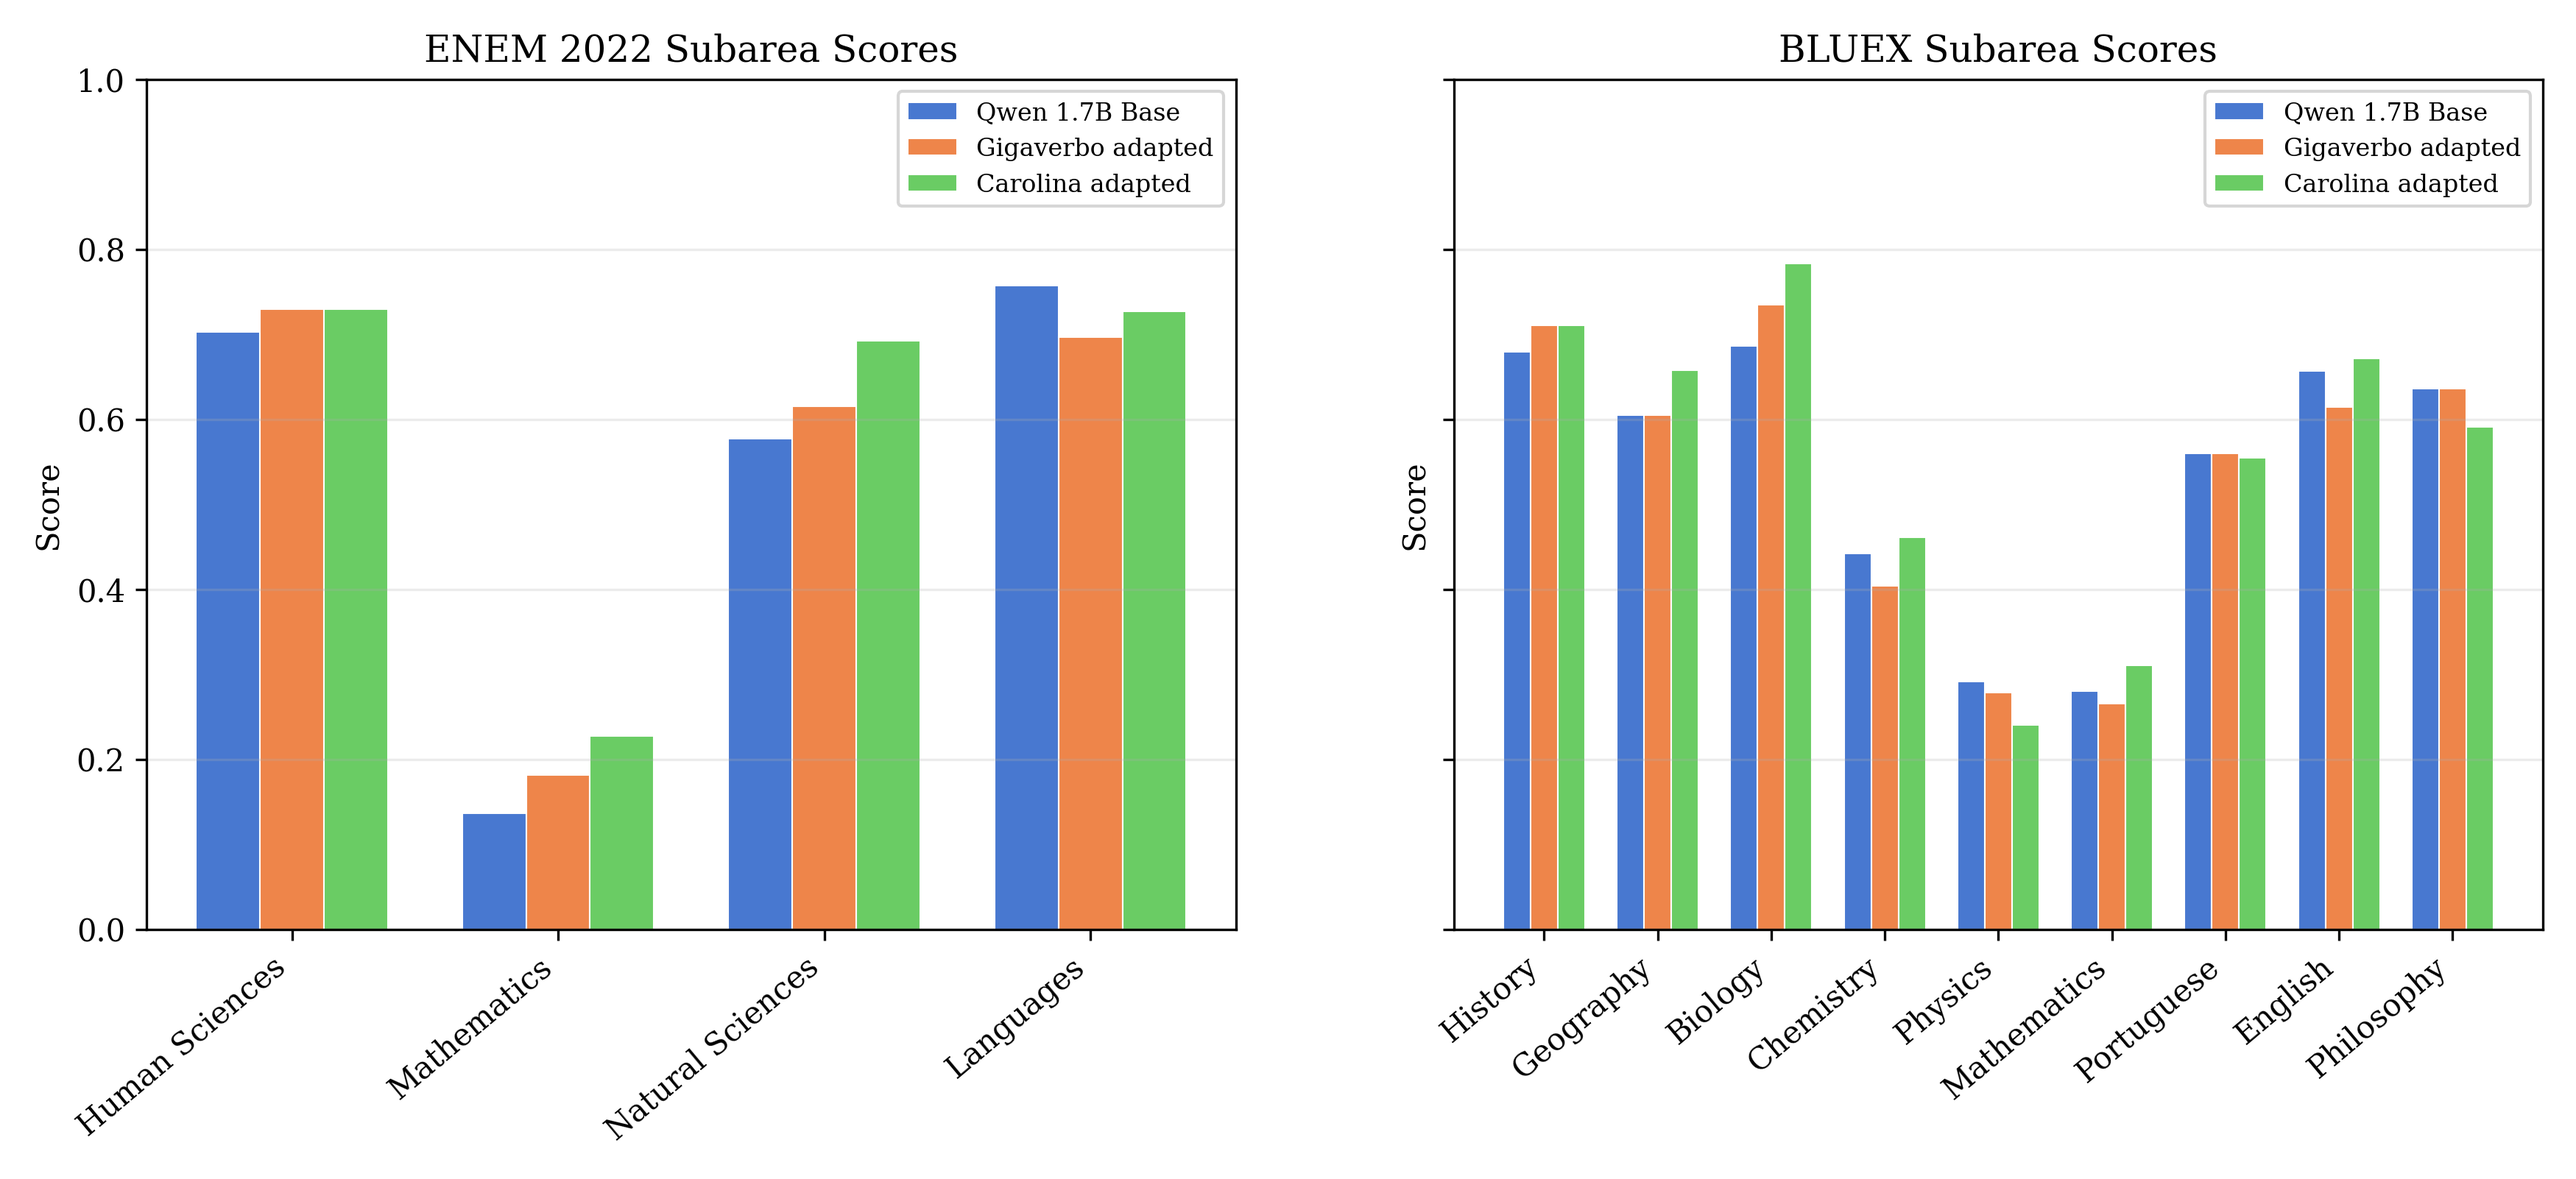
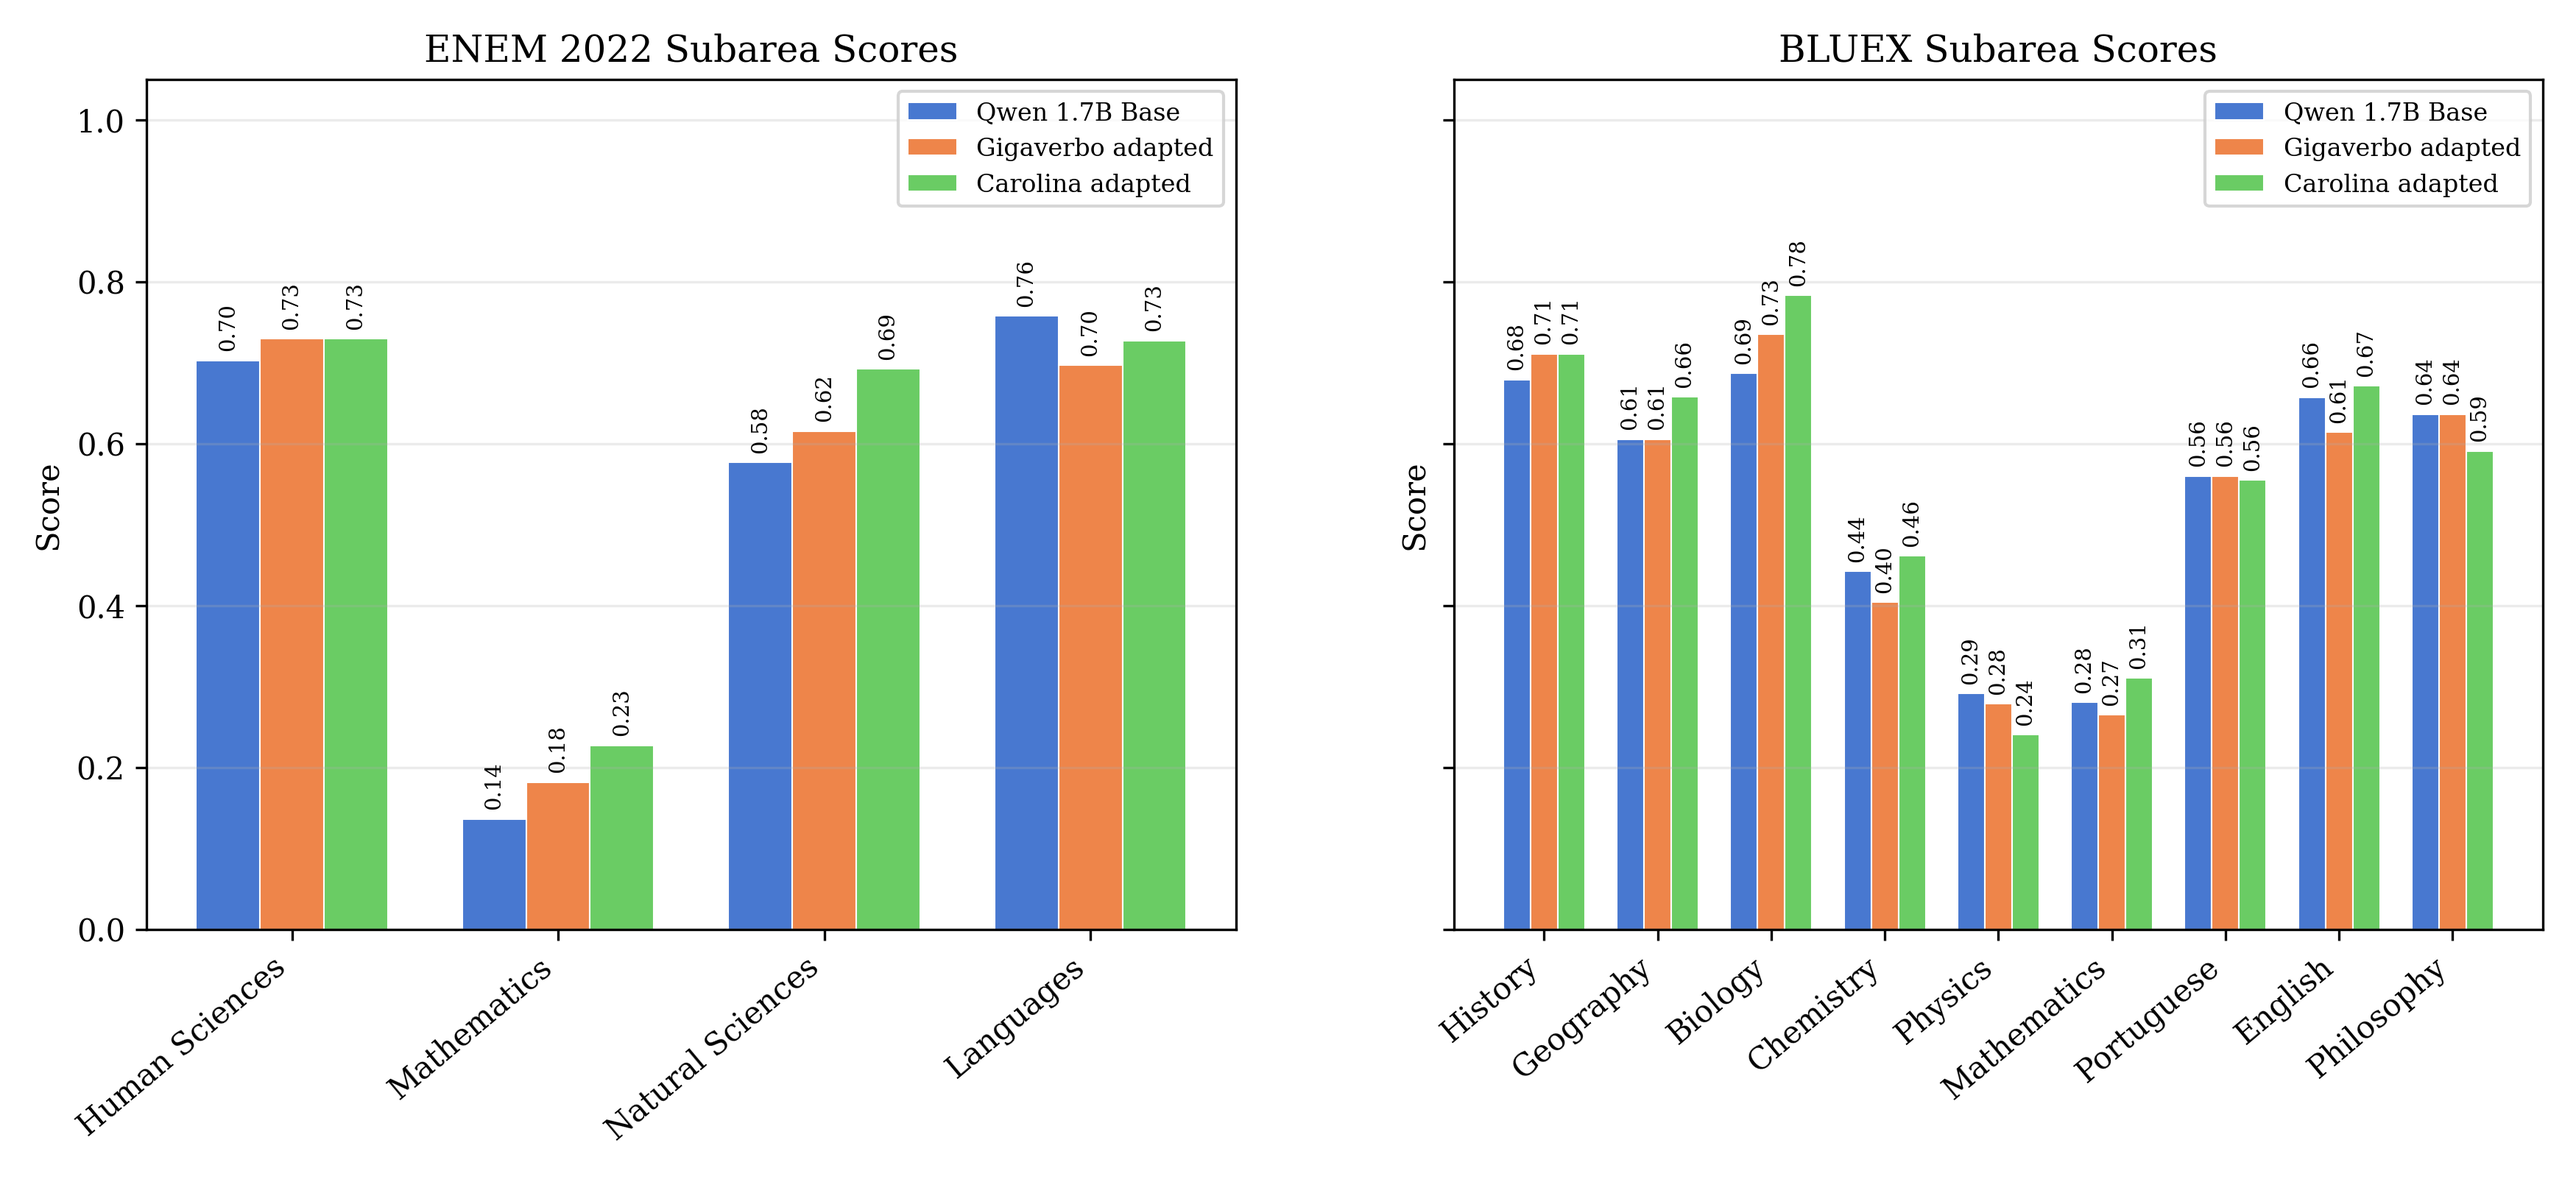
Annotate ENEM/BLUEX subarea bars

diff --git a/scripts/analyze_enem_bluex_subareas.py b/scripts/analyze_enem_bluex_subareas.py
@@ -281,7 +281,7 @@ def plot_grouped_bars(df: pd.DataFrame, out_dir: Path) -> None:
             for idx, checkpoint in enumerate(CHECKPOINTS):
                 vals = pivot[checkpoint].tolist()
                 positions = x + idx * width - width
-                ax.bar(
+                bars = ax.bar(
                     positions,
                     vals,
                     width,
@@ -290,6 +290,18 @@ def plot_grouped_bars(df: pd.DataFrame, out_dir: Path) -> None:
                     edgecolor="white",
                     linewidth=0.5,
                 )
+                for bar, val in zip(bars, vals):
+                    if np.isnan(val):
+                        continue
+                    ax.text(
+                        bar.get_x() + bar.get_width() / 2,
+                        val + 0.012,
+                        f"{val:.2f}",
+                        ha="center",
+                        va="bottom",
+                        fontsize=7,
+                        rotation=90,
+                    )
 
             ax.set_xticks(x)
             ax.set_xticklabels(
@@ -297,7 +309,7 @@ def plot_grouped_bars(df: pd.DataFrame, out_dir: Path) -> None:
                 rotation=40,
                 ha="right",
             )
-            ax.set_ylim(0, 1.0)
+            ax.set_ylim(0, 1.05)
             ax.set_ylabel("Score")
             ax.set_title(f"{task_label} Subarea Scores")
             ax.grid(axis="y", alpha=0.25)
